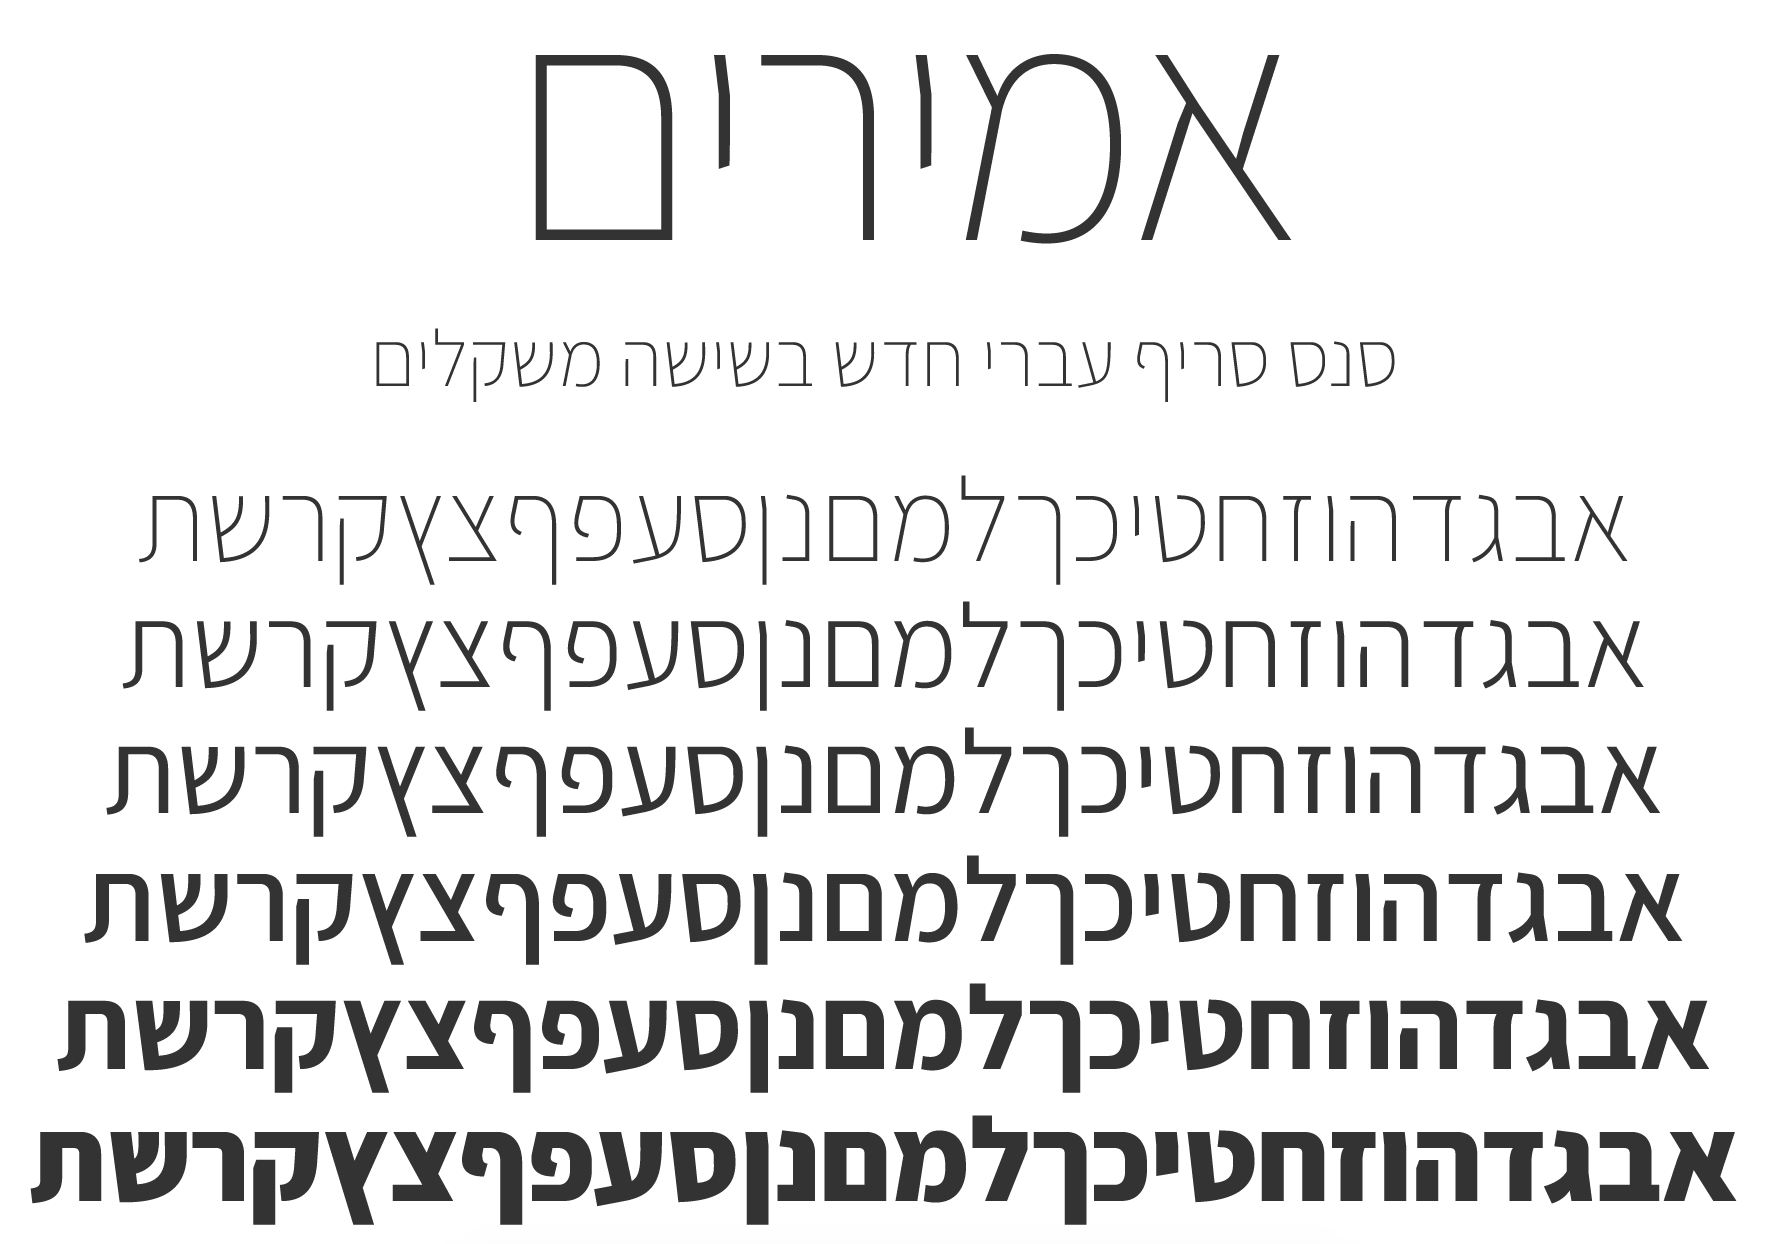
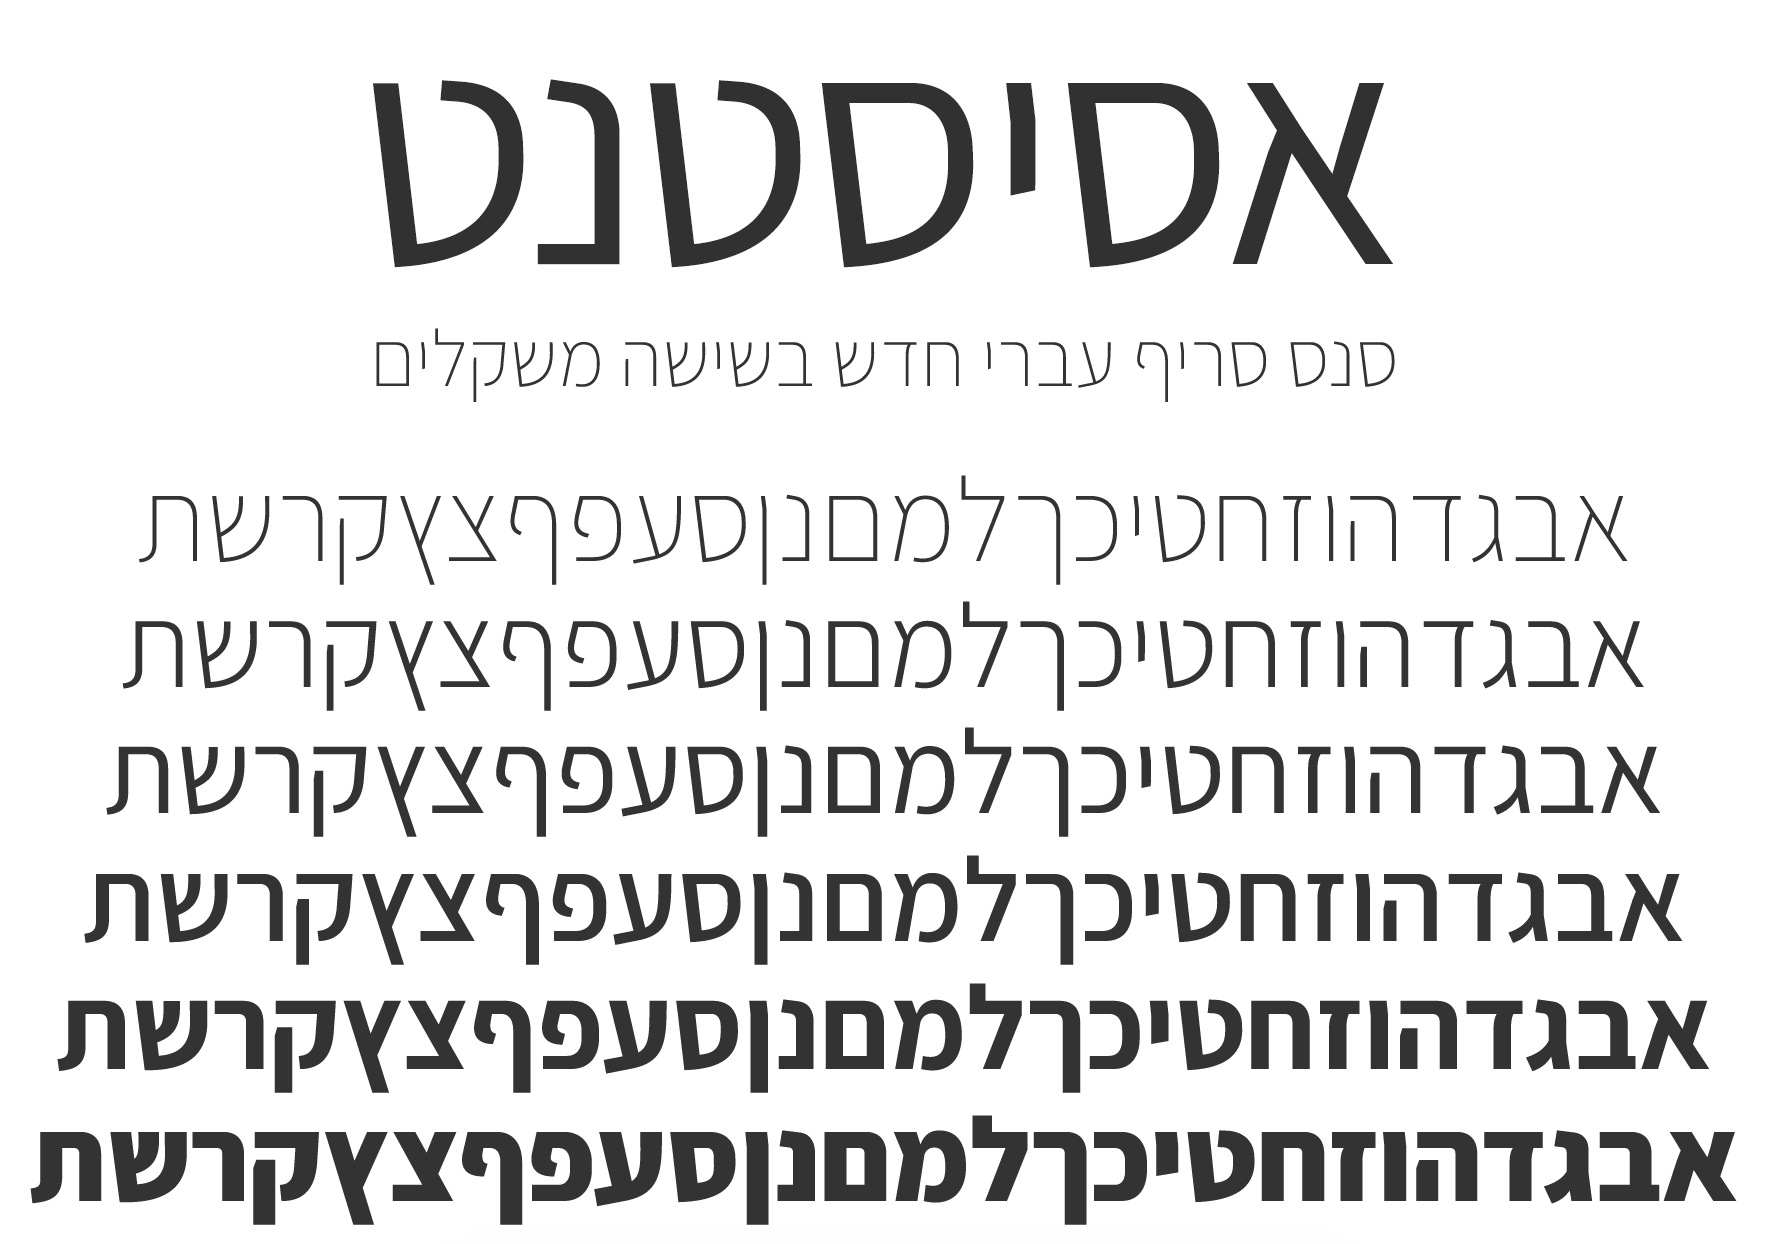
Added files via upload

Changed region(s): [[0.1858, 0.0305, 0.8052, 0.2138]]

diff --git a/index.html b/index.html
@@ -3,7 +3,7 @@
   <head>
     <meta charset="utf-8">
     <meta http-equiv="X-UA-Compatible" content="chrome=1">
-    <title>Amirim Hebrew type family by Ben Nathan</title>
+    <title>Assistant Hebrew type family by Ben Nathan</title>
 
     <link rel="stylesheet" href="stylesheets/styles.css">
     <link rel="stylesheet" href="stylesheets/github-light.css">
@@ -15,17 +15,17 @@
   <body>
     <div class="wrapper">
       <header>
-        <h1>Amirim Hebrew</h1>
-        <p> Amirim is a Hebrew type family designed by Ben Nathan to complement the Source Sans Pro Latin fonts by Paul Hunt at Adobe Type.
+        <h1>Assistant Hebrew</h1>
+        <p> Assistant is a Hebrew type family designed by Ben Nathan to complement the Source Sans Pro Latin fonts by Paul Hunt at Adobe Type.
 </p>
 
-        <p class="view"><a href="https://github.com/hafontia/Amirim">View the Project on GitHub <small>hafontia/Amirim</small></a></p>
+        <p class="view"><a href="https://github.com/hafontia/Amirim">View the Project on GitHub <small>hafontia/Assistant</small></a></p>
 
 
         <ul>
-          <li><a href="https://github.com/hafontia/Amirim/zipball/master">Download <strong>ZIP File</strong></a></li>
-          <li><a href="https://github.com/hafontia/Amirim/tarball/master">Download <strong>TAR Ball</strong></a></li>
-          <li><a href="https://github.com/hafontia/Amirim">View On <strong>GitHub</strong></a></li>
+          <li><a href="https://github.com/hafontia/Assistant/zipball/master">Download <strong>ZIP File</strong></a></li>
+          <li><a href="https://github.com/hafontia/Assistant/tarball/master">Download <strong>TAR Ball</strong></a></li>
+          <li><a href="https://github.com/hafontia/Assistant">View On <strong>GitHub</strong></a></li>
         </ul>
       </header>
       <section>

diff --git a/README.md b/README.md
@@ -1,9 +1,7 @@
-# Amirim  
-<<<<<<< Updated upstream
+# Assistant
 
-Amirim is a Hebrew type family designed by Ben Nathan to complement the Source Sans Pro Latin fonts by Paul Hunt at Adobe Type.
-=======
+Assistant is a Hebrew type family designed by Ben Nathan to complement the Source Sans Pro Latin fonts by Paul Hunt at Adobe Type.
+
 Hebrew type family designed by Ben Nathan.
 Sans Serif contemporary Hebrew design with Latin by "Source Sans Pro" by Paul Hunt, Adobe.
 The family contains 6 styles, from Extra Light to Black.
->>>>>>> Stashed changes
